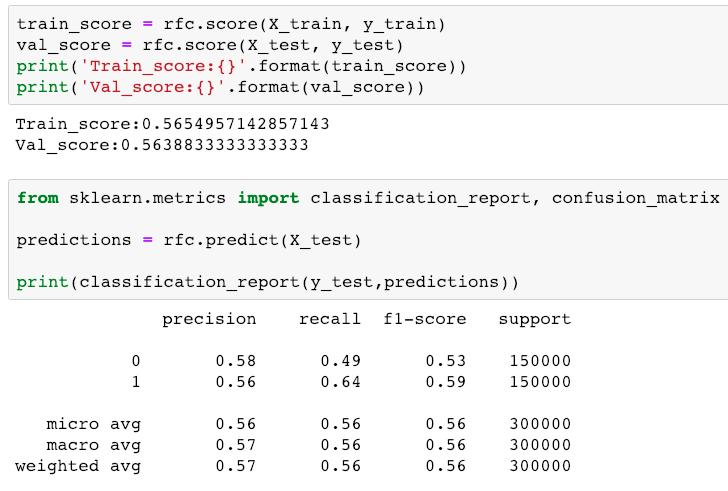
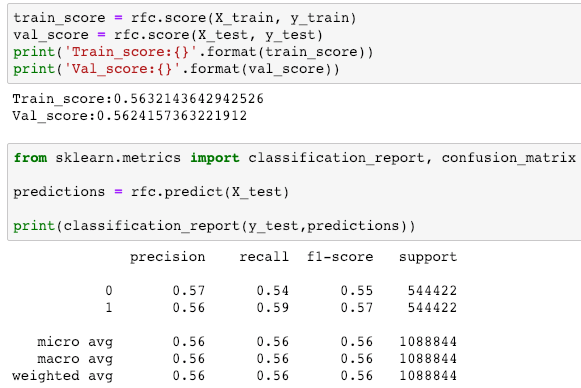
update RFC

diff --git a/notebooks_data/phoneme_boundary_random_forest_classifier/phoneme_boundary_random_forest_classifier.md b/notebooks_data/phoneme_boundary_random_forest_classifier/phoneme_boundary_random_forest_classifier.md
@@ -208,7 +208,7 @@ plt.show()
 
 
 ```python
-X, y = getData(df_difference)
+X, y = getData(df_nondifference)
 
 print(f'X: {len(X)}, y: {len(y)}')
 ```
@@ -420,7 +420,6 @@ plotResult(train_accuracy, val_accuracy, n_estimators, 'Een test op 1 t/m 10 est
 
 
     Max validation acc.: 0.5617766666666667
-    Hier zien we dat de validation niet ver afstaat van de training lijn. Een goede generalization.
 
 
 
@@ -434,7 +433,7 @@ print('Hier zien we dat de waarde 32 een beste resultaat geeft.')
 
 
     Max validation acc.: 0.5640533333333333
-    Hier zien we dat de validation niet ver afstaat van de training.
+    Hier zien we dat de validation ver afstaat van de training. Een vorm van overfitting.
 
 
 
@@ -483,8 +482,8 @@ print('Train_score:{}'.format(train_score))
 print('Val_score:{}'.format(val_score))
 ```
 
-    Train_score:0.5654957142857143
-    Val_score:0.5638833333333333
+    Train_score:0.6066714285714285
+    Val_score:0.5979
 
 
 
@@ -498,12 +497,12 @@ print(classification_report(y_test,predictions))
 
                   precision    recall  f1-score   support
     
-               0       0.58      0.49      0.53    150000
-               1       0.56      0.64      0.59    150000
+               0       0.62      0.52      0.56     15000
+               1       0.59      0.67      0.63     15000
     
-       micro avg       0.56      0.56      0.56    300000
-       macro avg       0.57      0.56      0.56    300000
-    weighted avg       0.57      0.56      0.56    300000
+       micro avg       0.60      0.60      0.60     30000
+       macro avg       0.60      0.60      0.60     30000
+    weighted avg       0.60      0.60      0.60     30000
     
 
 
